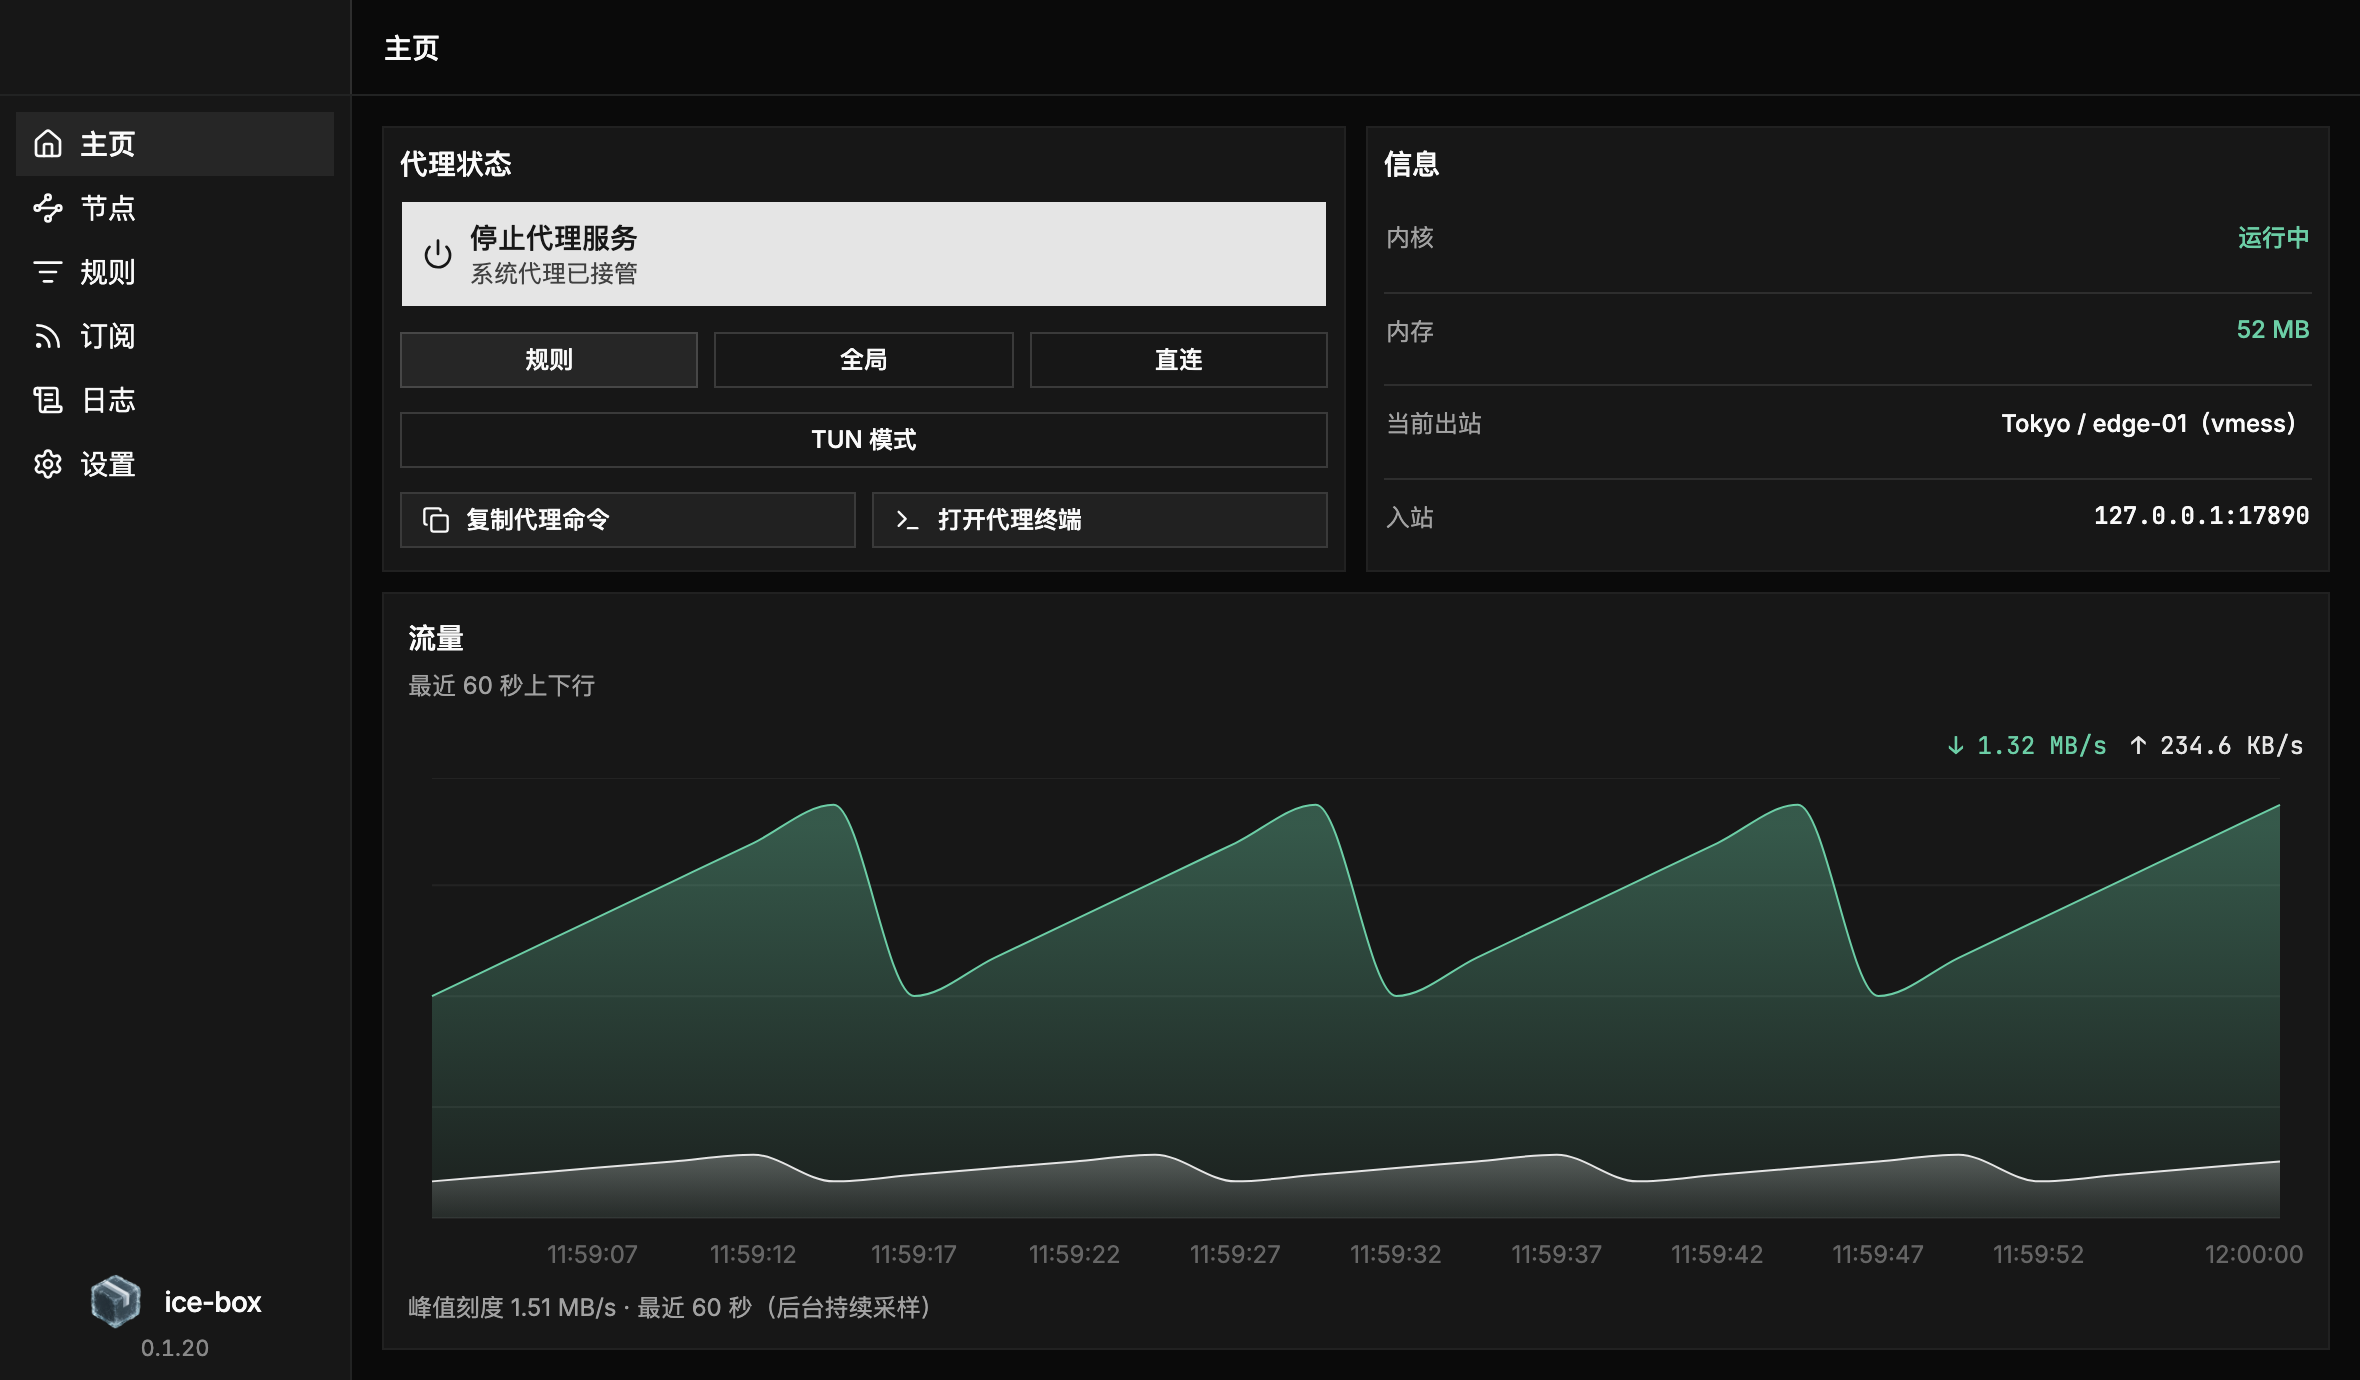
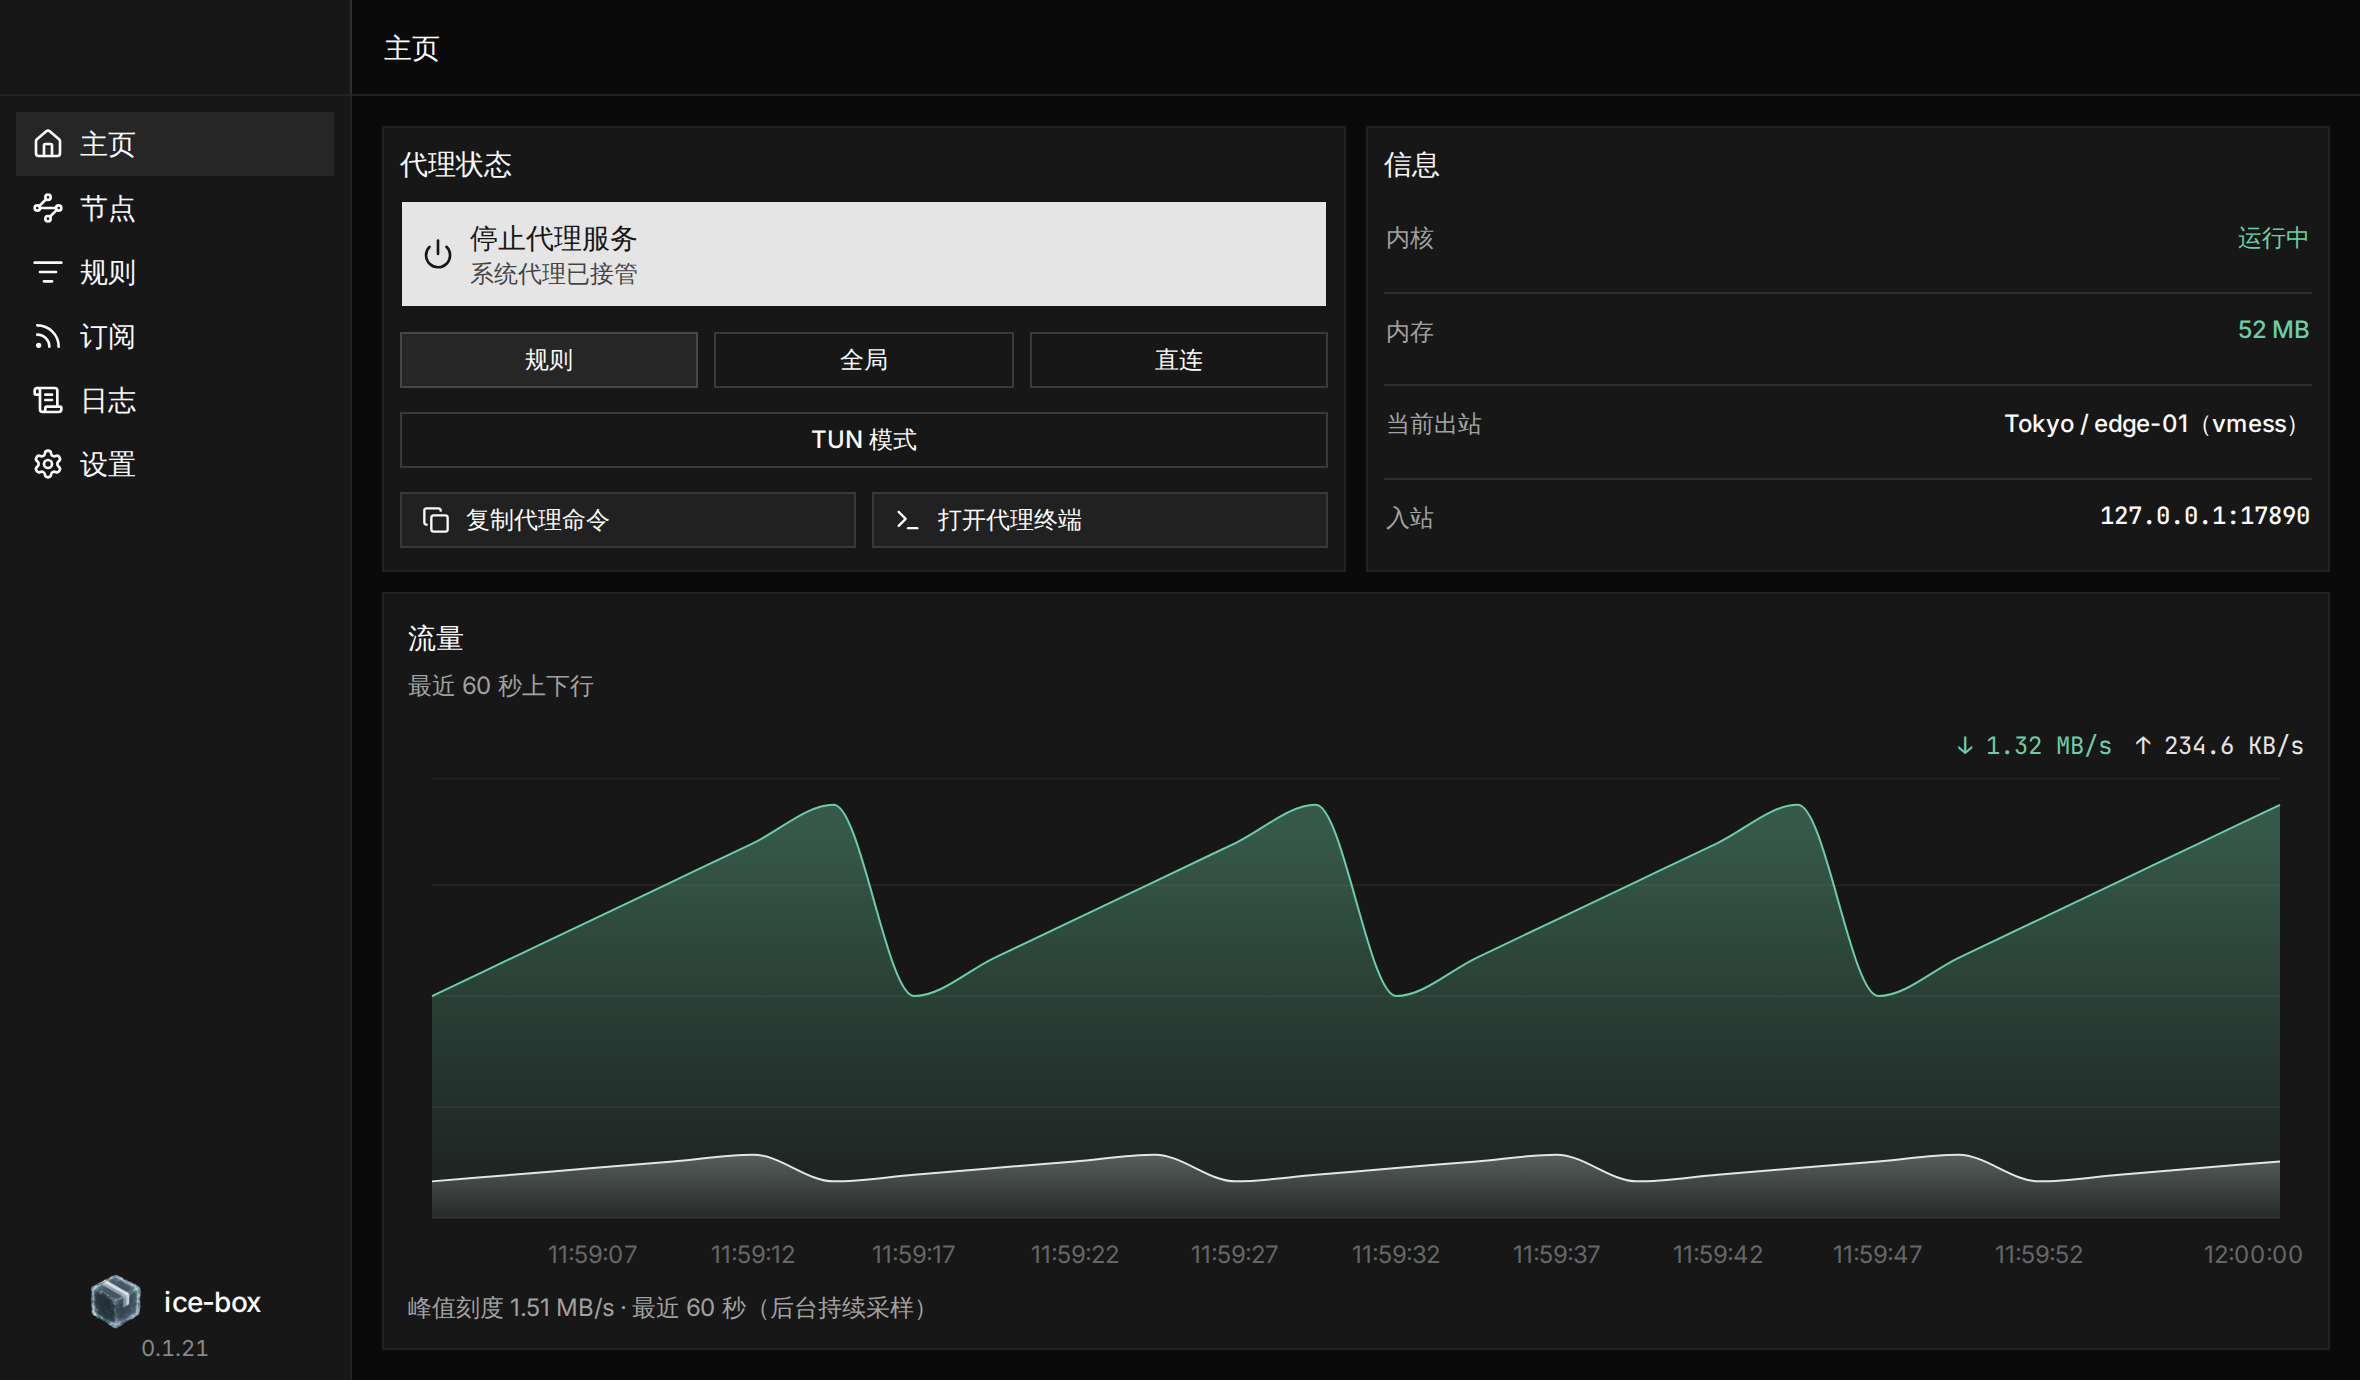
release: v0.1.21
Keep the running app lighter by dropping proxy maps, route rules, and node
connection fields from resident memory, and paint the home chart from each
live sample. Bump version sources, open the 0.1.21 changelog, and recapture
the Home screenshots.

diff --git a/CHANGELOG.md b/CHANGELOG.md
@@ -5,6 +5,8 @@ The format is based on [Keep a Changelog](https://keepachangelog.com/en/1.1.0/).
 
 ## [Unreleased]
 
+## [0.1.21] - 2026-10-09
+
 ### Changed
 
 - The home traffic chart paints from each live sample. The one-second poll
